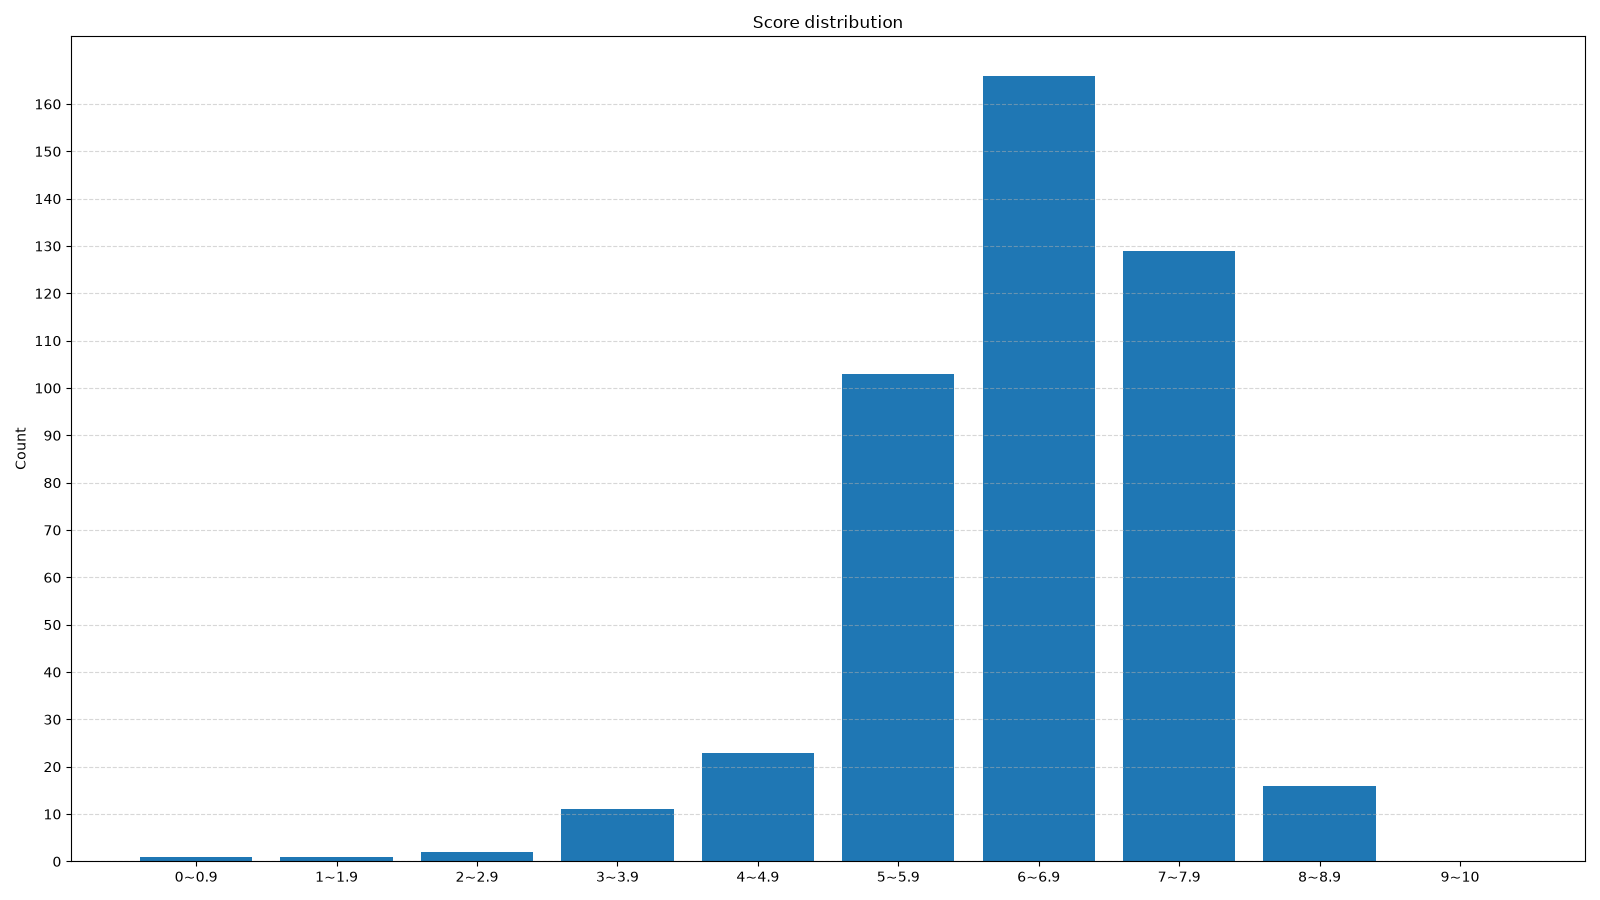
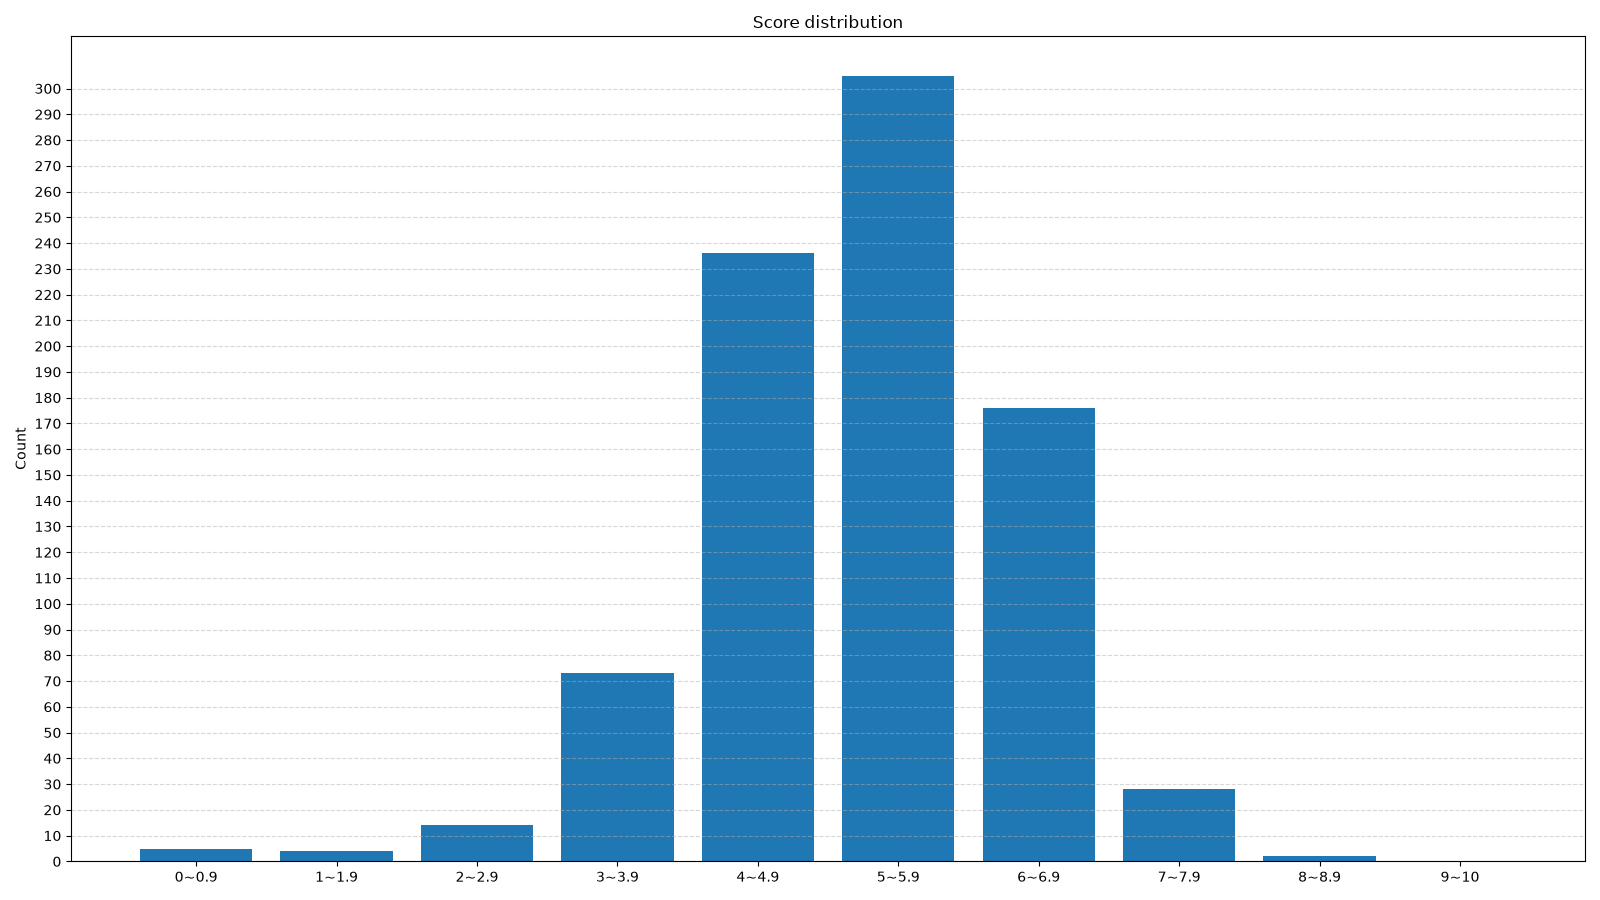
Adjust and add exponential decay to the score system because some IEMs are so hilariously bad

diff --git a/generate_stats.py b/generate_stats.py
@@ -28,8 +28,9 @@ BASS_COEFF = 0.3
 # Ignore FR above x Hz. 463: ~16kHz, should probably not be changed
 DATA_LIMIT = 463
 
-# delta_score = COMP - [actual sum of deltas]; so the higher score means a better adherence
-COMPENSATION = 6000
+# Scale factor for exponential decay; lower = agressive drop, higher = flatter
+# Should be adjusted so the average is near 5
+DECAY_FACTOR = 3500
 
 files = sorted(Path().glob(FREQUENCY_RESPONSES))
 frequency_response_dict_unnormalized = {}
@@ -75,7 +76,7 @@ TOTAL_IEM_COUNT = len(deltas_iem)
 
 # Adjust delta_score so the highest score = best adherence
 for i in range(TOTAL_IEM_COUNT):
-    deltas_score[i] = round((COMPENSATION - deltas_score[i]) / 600, 2)
+    deltas_score[i] = round(10 * np.exp(-deltas_score[i] / DECAY_FACTOR), 2)
 
 
 # Results
